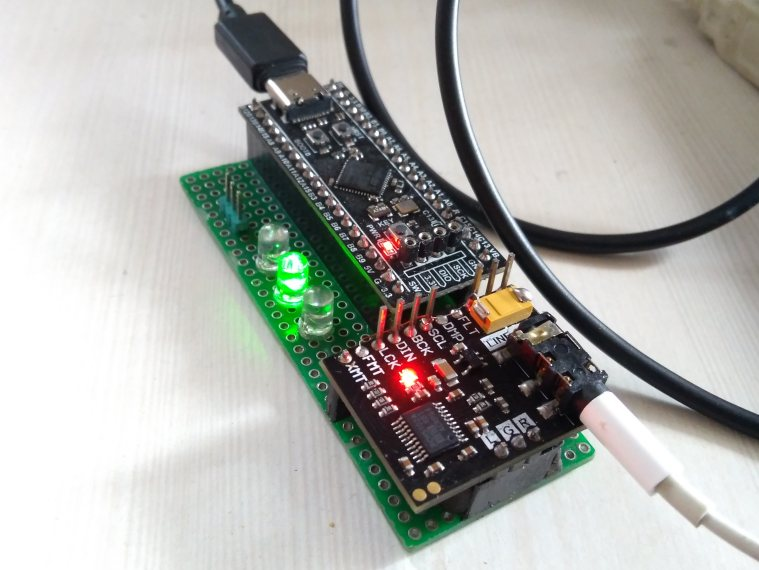
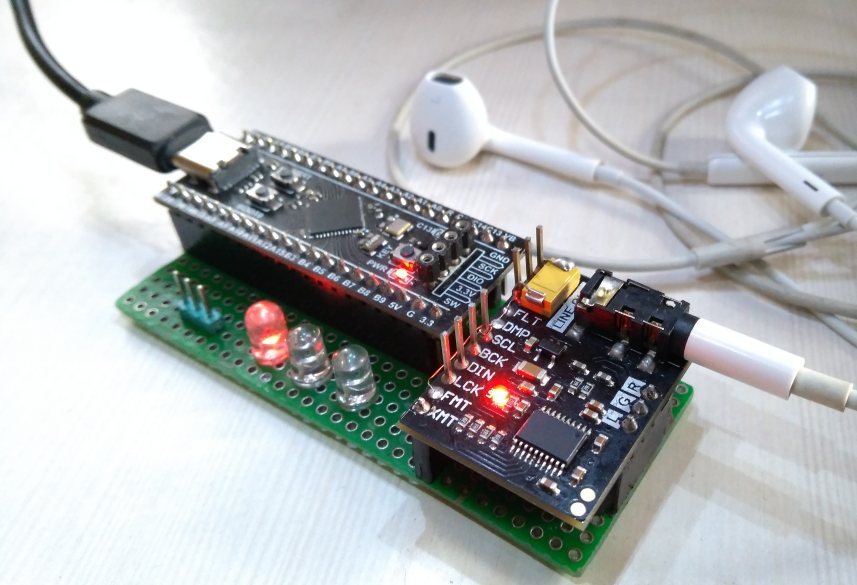
fix onboard led diagnostic, update readme

diff --git a/stm32_usb/Class/AUDIO/Src/usbd_audio.c b/stm32_usb/Class/AUDIO/Src/usbd_audio.c
@@ -568,10 +568,10 @@ static uint8_t USBD_AUDIO_SOF(USBD_HandleTypeDef* pdev)
 
     // Monitor remaining writable buffer samples with LED
     if (audio_buf_writable_samples < AUDIO_BUF_SAFEZONE_SAMPLES) {
-    	BSP_LED_On(LED_RED);
+    	BSP_OnboardLED_On();
     	}
     else {
-    	BSP_LED_Off(LED_RED);
+    	BSP_OnboardLED_Off();
     	}
 
     sof_count += 1;

diff --git a/README.md b/README.md
@@ -65,6 +65,12 @@ This USB-DAC is a noticeable improvement from my laptop headphone output, when d
 
 <img src="pulseaudio_config.png" />
 
+## Optimizing Windows 10 for USB-Audio DAC
+
+<img src="win10_96kHz_24bit.png" />
+
+* Use the Control Panel Sound playback device properties dialog
+
 ## Endpoint Feedback mechanism
 
 <img src="feedback_endpoint_spec.png" />
